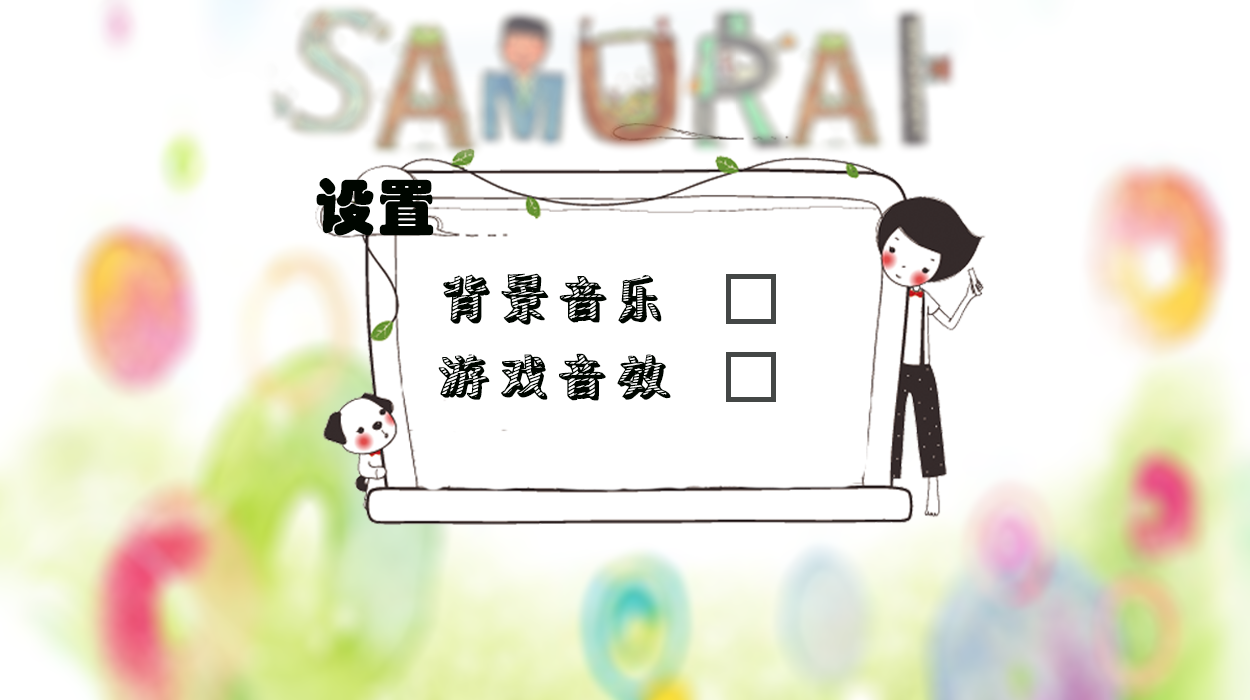
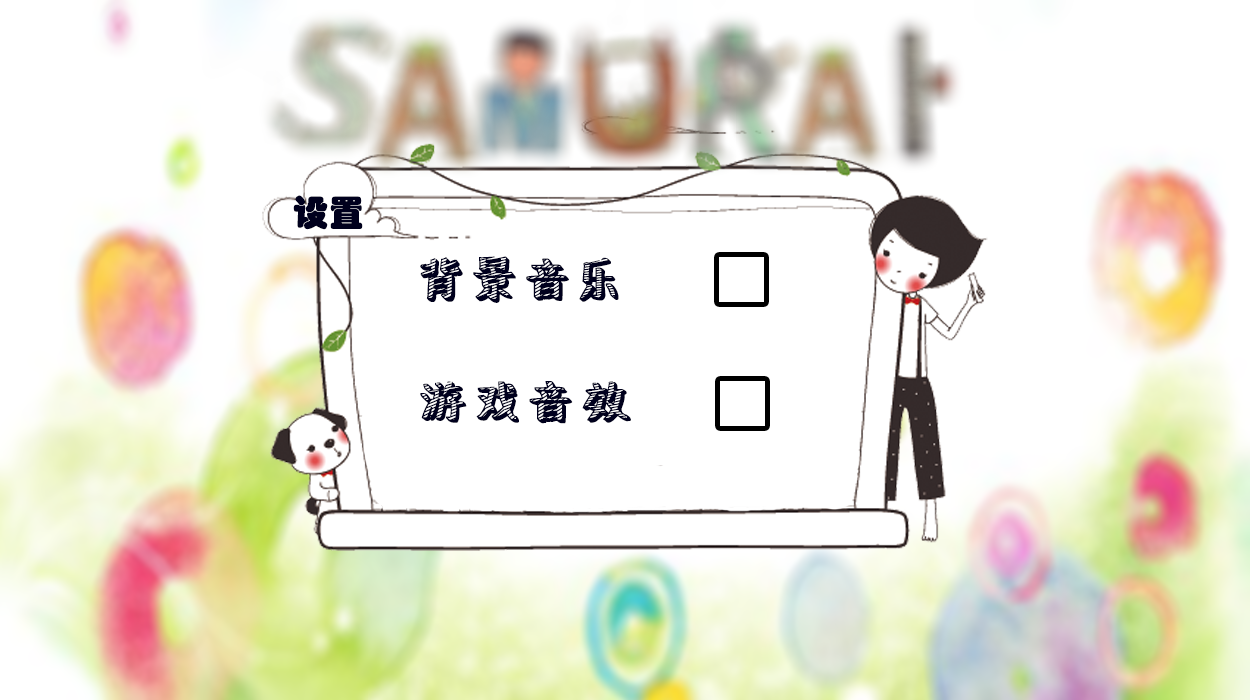
设置更新

diff --git a/Samurai/src/team/csca/view/set/JPanelSetting.java b/Samurai/src/team/csca/view/set/JPanelSetting.java
@@ -1,32 +1,53 @@
 package team.csca.view.set;
 
 import java.awt.Graphics;
+import java.awt.Image;
 
 import javax.swing.JPanel;
 
 import team.csca.view.extend.LayerBackground;
 import team.csca.view.image.ImgBackground;
+import team.csca.view.image.ImgOthers;
 
 public class JPanelSetting extends JPanel{
 	
 	private LayerBackground background;
 	
+	private Image volumeBack = ImgOthers.SOUNDS_VOLUME[10];
+	
+	private Image volumeGame = ImgOthers.SOUNDS_VOLUME[10];
+	
 	public JPanelSetting() {
 		
 		this.setLayout(null);
 		this.background = new LayerBackground(0, 0, 1250, 700, ImgBackground.SETTING_PANEL_BACKGROUND);
-		//TODO ： 三个按钮的位置需要定一下。
+		
 		this.add(new JButtonBackSound());
 		this.add(new JButtonGameSound());
 		this.add(new JButtonExitSet(this));
+		
+		//添加一系列的音量控制按钮。
+		for(int i = 0 ; i < 11 ; i++) {
+			
+		}
 		
 	}
 	
 	public void paint(Graphics g){
 		
 		this.background.createWindow(g);
+		g.drawImage(volumeBack, 375, 323, null);
+		g.drawImage(volumeGame, 375, 440, null);
 		super.paintComponents(g);
 		
+	}
+	
+	public void setBackVol(Image volumeBack){
+		this.volumeBack = volumeBack;
+	}
+	
+	public void setGameVol(Image volumeGame){
+		this.volumeGame = volumeGame;
 	}
 	
 }

diff --git a/Samurai/src/team/csca/view/set/JButtonBackSoundLine.java b/Samurai/src/team/csca/view/set/JButtonBackSoundLine.java
@@ -1,0 +1,36 @@
+package team.csca.view.set;
+
+import java.awt.Image;
+import java.awt.event.ActionEvent;
+import java.awt.event.ActionListener;
+
+import team.csca.controller.media.Player;
+import team.csca.view.extend.StaticButton;
+import team.csca.view.image.ImgOthers;
+
+public class JButtonBackSoundLine extends StaticButton implements ActionListener{
+	
+	private JPanelSetting fatherPanel ;
+	private int sound_SeriesNumber;
+	
+	
+	public JButtonBackSoundLine(int x, int y, int w, int h , int sound_SeriesNumber ,JPanelSetting fatherPanel) {
+		super(x, y, w, h, null);
+		
+		this.sound_SeriesNumber = sound_SeriesNumber;
+		this.fatherPanel = fatherPanel;
+		
+		this.addActionListener(this);
+//		this.setOpaque(true);
+	}
+
+
+	@Override
+	public void actionPerformed(ActionEvent e) {
+		fatherPanel.setBackVol(ImgOthers.SOUNDS_VOLUME[this.sound_SeriesNumber]);
+		Player.MUSiC_PLAYER.setBackVol(sound_SeriesNumber);
+		repaint();
+	}
+	
+	
+}

diff --git a/Samurai/src/team/csca/view/set/JButtonGameSoundLine.java b/Samurai/src/team/csca/view/set/JButtonGameSoundLine.java
@@ -1,0 +1,34 @@
+package team.csca.view.set;
+
+import java.awt.event.ActionEvent;
+import java.awt.event.ActionListener;
+
+import team.csca.controller.media.Player;
+import team.csca.view.extend.StaticButton;
+import team.csca.view.image.ImgOthers;
+
+public class JButtonGameSoundLine extends StaticButton implements ActionListener{
+	
+	private JPanelSetting fatherPanel ;
+	private int sound_SeriesNumber;
+	
+	
+	public JButtonGameSoundLine(int x, int y, int w, int h , int sound_SeriesNumber ,JPanelSetting fatherPanel) {
+		super(x, y, w, h, null);
+		
+		this.sound_SeriesNumber = sound_SeriesNumber;
+		this.fatherPanel = fatherPanel;
+		
+		this.addActionListener(this);
+//		this.setOpaque(true);
+	}
+
+
+	@Override
+	public void actionPerformed(ActionEvent e) {
+		this.fatherPanel.setGameVol(ImgOthers.SOUNDS_VOLUME[sound_SeriesNumber]);
+		Player.MUSiC_PLAYER.setGameVol(sound_SeriesNumber);
+		repaint();
+	}
+	
+}

diff --git a/Samurai/src/team/csca/client/RemoteHelper.java b/Samurai/src/team/csca/client/RemoteHelper.java
@@ -1,0 +1,34 @@
+package team.csca.client;
+
+import java.rmi.Remote;
+
+import team.csca.server.GameObsever;
+import team.csca.server.User;
+
+public class RemoteHelper {
+	
+	public final static RemoteHelper REMOTE_HELPER = new RemoteHelper();
+	
+	private RemoteHelper(){
+	}
+	
+	private Remote remote;
+
+	public void setRemote(Remote remote) {
+		this.remote = remote;
+	}
+	/**
+	 * @return 返回游戏监控器
+	 */
+	
+	public GameObsever getObserver(){
+		return (GameObsever) remote;
+	}
+	/**
+	 * @return 返回用户登入登出权限。
+	 */
+	public User getUser(){
+		return (User) remote;
+	}
+	
+}

diff --git a/Samurai/src/team/csca/controller/media/Player.java b/Samurai/src/team/csca/controller/media/Player.java
@@ -23,6 +23,7 @@ public class Player {
 	
 	private boolean game_ON = true;
 	
+	
 	private Player(){}
 	
 //	public void turnOnBack(){
@@ -64,7 +65,15 @@ public class Player {
 	public void changeGame_ON() {
 		this.game_ON = !this.game_ON;
 	}
-
+	
+	public void setBackVol(int volBack){
+		this.midiPlayer.setVolume(volBack);
+	}
+	
+	public void setGameVol(int volGame){
+		this.soundPlayer.setVolume(volGame);
+	}
+	
 	/**
 	 * 功能是用来打开mp3类型的文件
 	 * 在项目中是专门用来播放mp3类型的游戏音效

diff --git a/Samurai/src/team/csca/view/set/JButtonExitSet.java b/Samurai/src/team/csca/view/set/JButtonExitSet.java
@@ -12,7 +12,7 @@ public class JButtonExitSet extends DynamicButton{
 	private JPanelSetting fatherPanel;
 	
 	public JButtonExitSet(JPanelSetting fatherPanel){
-		super(928, 103, 60, 60, ImgButton.RETURN_FROM_INIT, ImgButton.RETURN_FROM_ENTER, ImgButton.RETURN_FROM_CLICKED);
+		super(834, 148, 60, 60, ImgButton.RETURN_FROM_INIT, ImgButton.RETURN_FROM_ENTER, ImgButton.RETURN_FROM_CLICKED);
 		this.fatherPanel = fatherPanel;
 	}
 	

diff --git a/SamuraiServer/src/serviceImp/UserImp.java b/SamuraiServer/src/serviceImp/UserImp.java
@@ -19,8 +19,10 @@ public class UserImp implements User{
 	private final static ArrayList<String> USERNAMES = new ArrayList<String>();
 	private final static ArrayList<String> PASSWORDS = new ArrayList<String>();
 	
+	private int currentCientNums = 0;
+	private String hostName = null;
 	
-	
+ 	
 	private final static int SUCCEED = 0;
 	private final static int NAME_INVALID = 1;
 	private final static int PASSWORD_ERROR = 2;

diff --git a/Samurai/src/team/csca/view/image/ImgOthers.java b/Samurai/src/team/csca/view/image/ImgOthers.java
@@ -1,0 +1,23 @@
+package team.csca.view.image;
+
+import java.awt.Image;
+
+import javax.swing.ImageIcon;
+
+public class ImgOthers {
+	
+	public final static Image[] SOUNDS_VOLUME;
+	
+	static{
+		
+		SOUNDS_VOLUME = new Image[11];
+		
+		for(int i = 0 ; i < 11 ; i++){
+			SOUNDS_VOLUME[i] = new ImageIcon("Image/SetPanel/"+ i + ".png").getImage();
+		}
+		
+	}
+	
+	
+	
+}

diff --git a/Samurai/src/team/csca/client/ClientLink.java b/Samurai/src/team/csca/client/ClientLink.java
@@ -1,0 +1,18 @@
+package team.csca.client;
+
+public class ClientLink {
+	private RemoteHelper remoteHelper = RemoteHelper.REMOTE_HELPER;
+	
+	public ClientLink(){
+		
+	}
+	
+	public void linkServer(){
+		//不采用IP方式。 即 。 Regist.lookup
+		//本机IP : 172.26.216.186 但是这种方式不太好。因为依赖于IP
+		
+		
+		
+	}
+	
+}

diff --git a/Samurai/src/team/csca/view/set/JButtonBackSound.java b/Samurai/src/team/csca/view/set/JButtonBackSound.java
@@ -13,7 +13,7 @@ public class JButtonBackSound extends StaticButton implements ActionListener{
 	
 	public JButtonBackSound() {
 		//TODO : add the button and its configure
-		super(728, 273, 47, 47, null);
+		super(715, 250, 52, 52, null);
 		if (backSoundOn) {
 			this.setButtonImg(ImgSystem.TICK);
 		}else if(!backSoundOn){

diff --git a/Samurai/src/team/csca/view/set/JButtonGameSound.java b/Samurai/src/team/csca/view/set/JButtonGameSound.java
@@ -16,7 +16,7 @@ public class JButtonGameSound extends StaticButton implements ActionListener{
 	private boolean gameSoundOn = true;
 	
 	public JButtonGameSound(){
-		super(728, 352, 47, 47, ImgSystem.TICK);
+		super(715, 375, 52, 52, ImgSystem.TICK);
 		this.addActionListener(this);
 	}
 	/**

diff --git a/SamuraiServer/src/service/User.java b/SamuraiServer/src/service/User.java
@@ -34,7 +34,8 @@ public interface User extends Remote{
 	 */
 	public boolean logout(String userName) throws RemoteException;
 	/**
-	 * 用户选择模式
+	 * 房主选择模式 。
+	 * 第一个登陆的人作为房主
 	 * @param moodleCode
 	 * @throws RemoteException
 	 */
